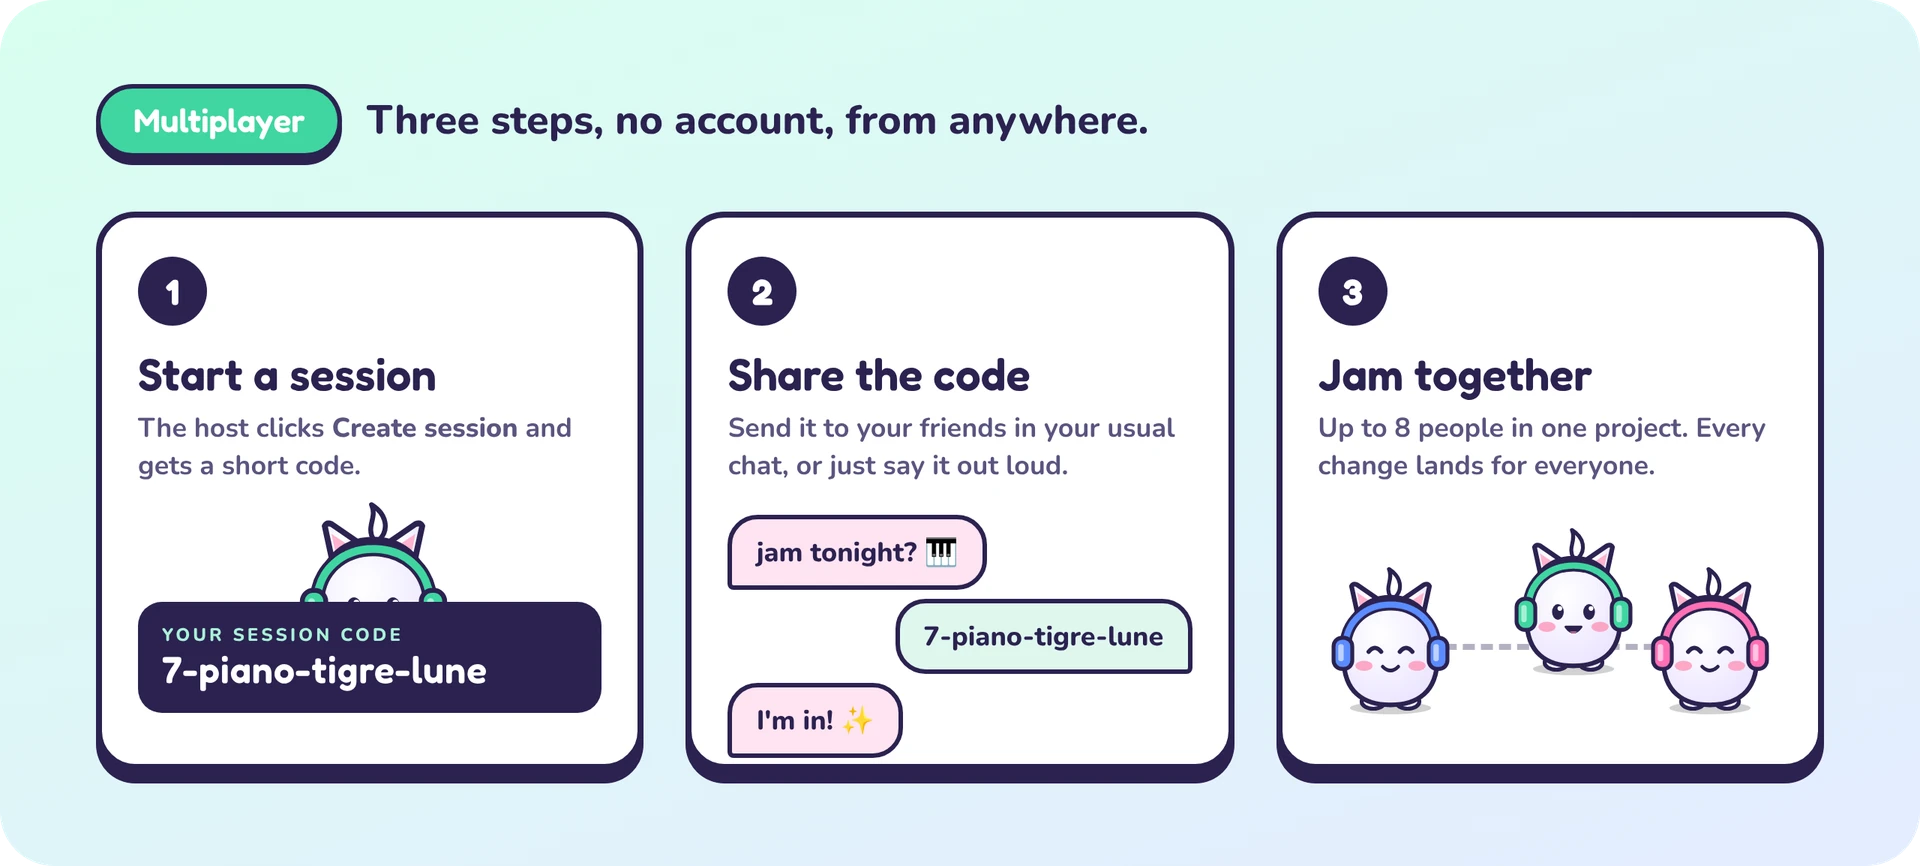
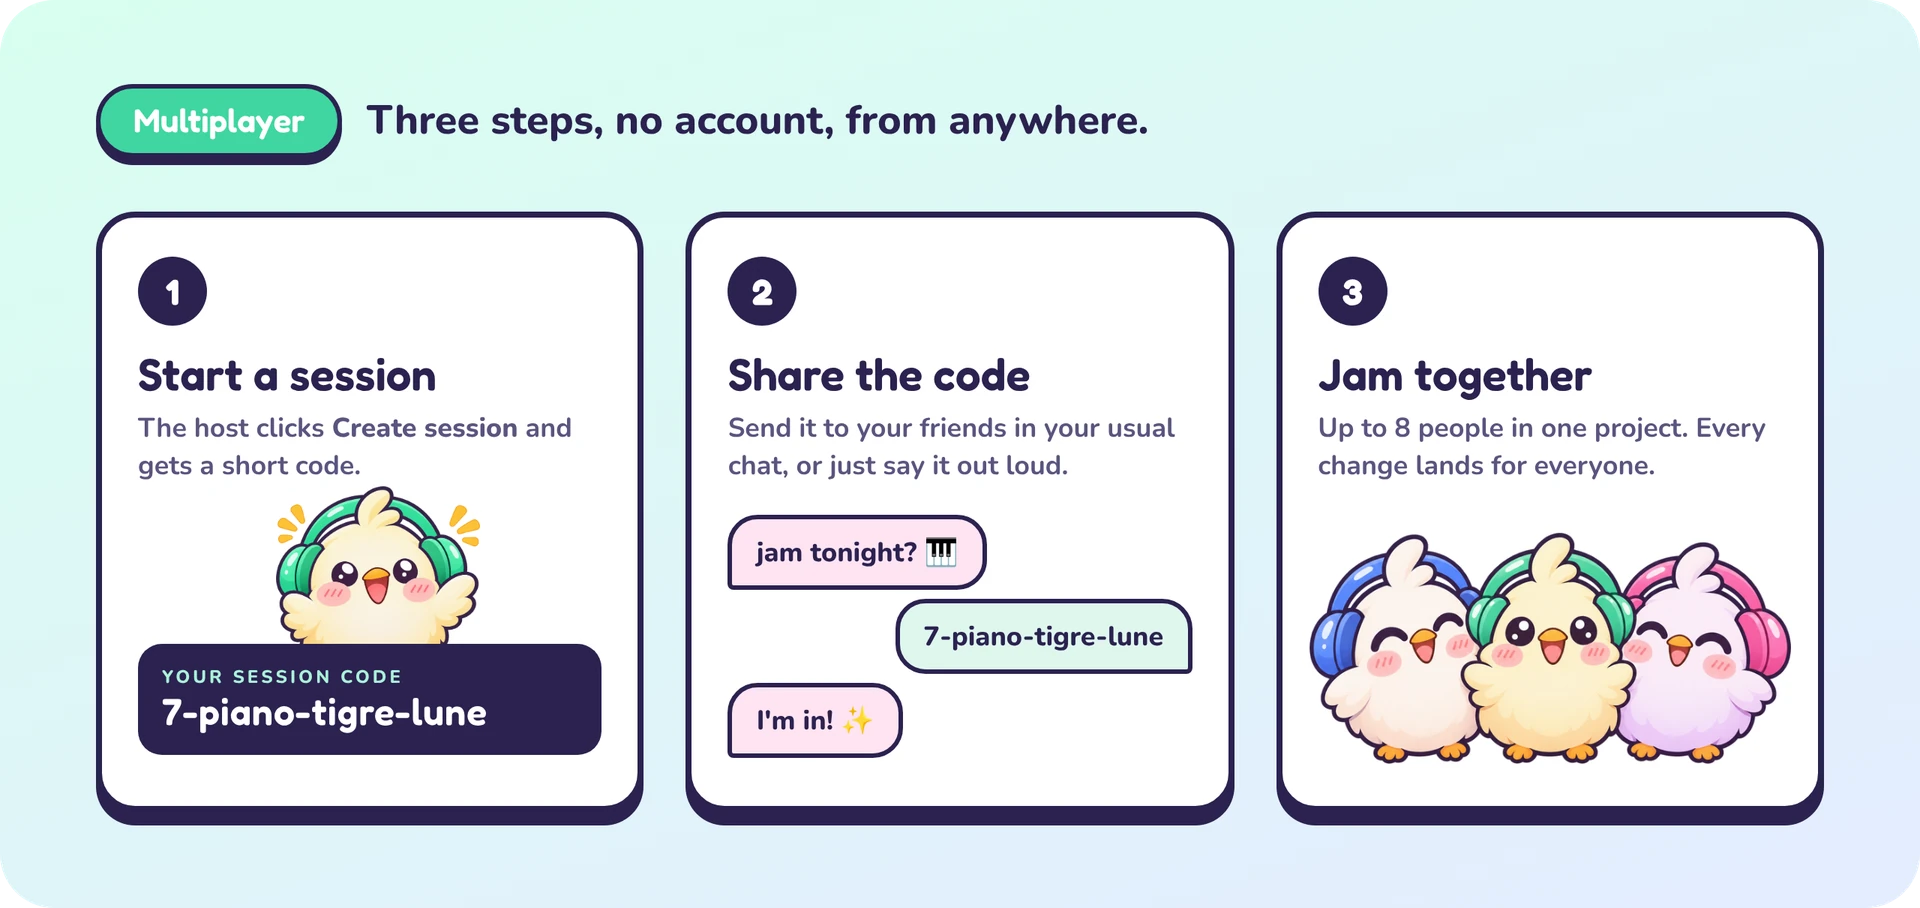
README: new bird mascots in the header and illustrations
Replace the hand-drawn mascot with the three headphone birds (blue
Studio, green Multiplayer, pink DJ) in the header, the Multiplayer
steps and the screenshot frames, and show the group in "Why YOBUKO".

Claude-Session: https://claude.ai/code/session_01X5uisPxxHcLgZUVDKfZqRQ

diff --git a/README.md b/README.md
@@ -99,7 +99,11 @@ Grab the latest version from the **[Releases page](https://github.com/Nozomagari
 
 In Japanese folklore, **Yamabiko (山彦)** is the spirit of the echo: a little mountain yōkai that answers whoever calls into the valley. In some regions it was also called **yobuko (呼子)**, *"the calling child"*.
 
-That is exactly the idea here: **one musician sends out a sound, another one answers**, wherever they are. That little echo spirit with headphones is our mascot.
+That is exactly the idea here: **one musician sends out a sound, another one answers**, wherever they are.
+
+<p align="center"><img src="assets/readme/piou-group.webp" alt="The YOBUKO mascots: three little round birds with blue, green and pink headphones" width="420"></p>
+
+Our mascots are three little birds who call and answer each other across the mountains. Their headphones match the three modes: 💙 Studio, 💚 Multiplayer and 🩷 DJ.
 
 <br>
 
